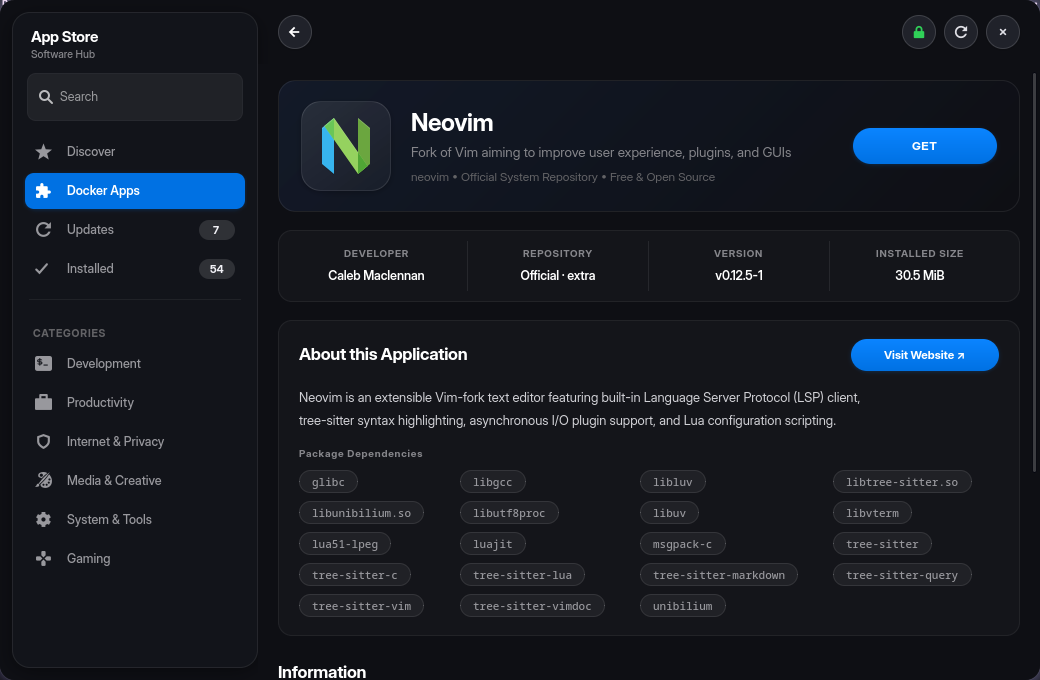
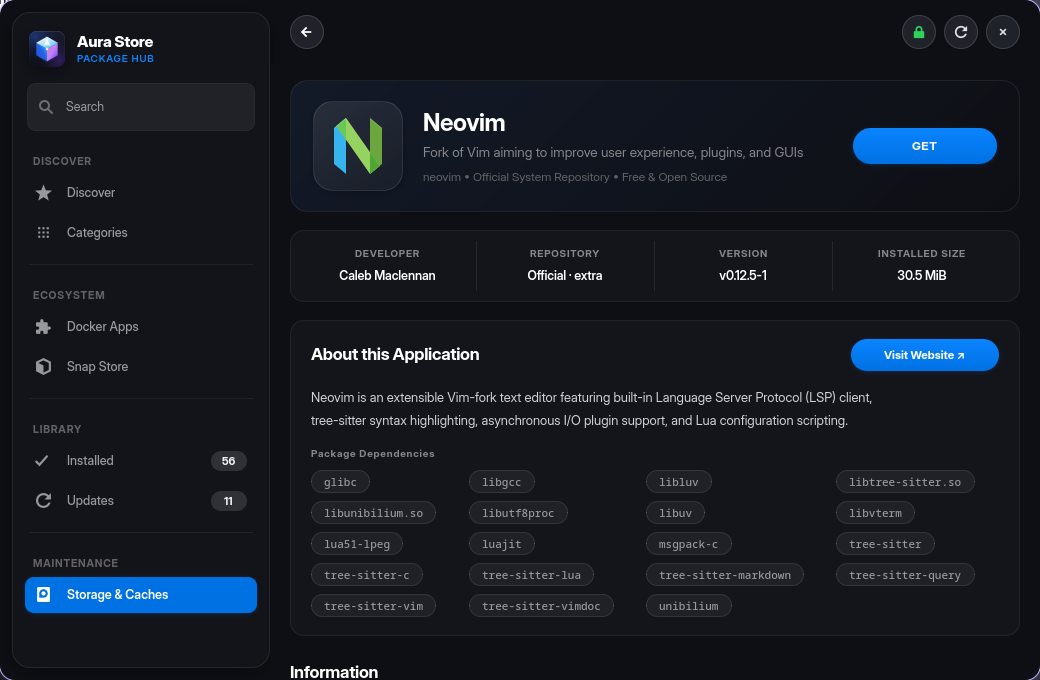
docs: refresh repository screenshots with latest UI enhancements and add Snap Store and Storage Manager

diff --git a/aura.py b/aura.py
@@ -64,6 +64,10 @@ class AuraApplication(Adw.Application):
                 action = "installed"
             elif args[1] in ["--docker", "-D", "--containers", "-C"]:
                 action = "docker"
+            elif args[1] in ["--snap", "-S"]:
+                action = "snap"
+            elif args[1] in ["--storage", "--maintenance"]:
+                action = "storage"
             elif args[1] in ["-m", "--maximize"]:
                 action = "maximize"
             elif args[1] in ["-f", "--fullscreen"]:
@@ -114,6 +118,18 @@ class AuraApplication(Adw.Application):
             if target:
                 target.set_active(True)
             self.window._on_sidebar_channel_click("docker")
+        elif action == "snap":
+            self.window.back_btn.set_visible(False)
+            target = self.window.sidebar_buttons.get("snap")
+            if target:
+                target.set_active(True)
+            self.window._on_sidebar_channel_click("snap")
+        elif action == "storage":
+            self.window.back_btn.set_visible(False)
+            target = self.window.sidebar_buttons.get("storage")
+            if target:
+                target.set_active(True)
+            self.window._on_sidebar_channel_click("storage")
         elif action == "maximize":
             self.window.maximize()
         elif action == "fullscreen":

diff --git a/README.md b/README.md
@@ -57,6 +57,15 @@ Instant status of all pending system upgrades with single-click batch updates an
 
 ---
 
+### 🛍 Snap Store Integration & Storage Cleaner
+Access thousands of canonical and community Snaps alongside instant disk and build cache pruning for Pacman, Paru, Docker, and system journals.
+
+| Snap Store | Storage & Caches |
+| :---: | :---: |
+| ![Snap Store](screenshots/snap.png) | ![Storage & Caches](screenshots/storage.png) |
+
+---
+
 ### 🖥 Fullscreen 3-Column Experience
 Seamlessly adapts from narrow half-screen tiling layouts to wide 1080p/4K triple-column layouts via dynamic Libadwaita breakpoints.
 
